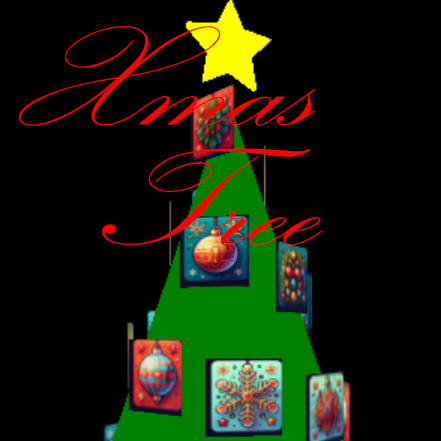
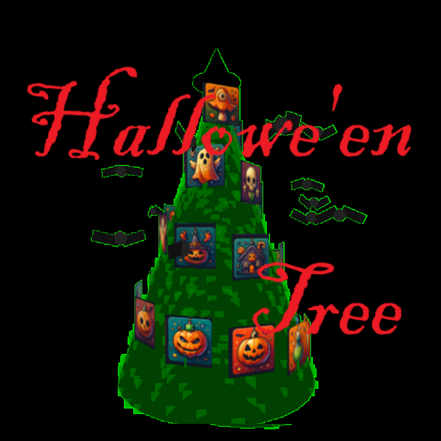
Hallowe'enTreeに変更

diff --git a/main.js b/main.js
@@ -7,6 +7,10 @@ const SPIRAL_TURNS = 4; // 螺旋の巻数
 const STEPS = 1000; // 数値積分のステップ数
 const DEFAULT_TEXTURE = 'default_texture.png';
 
+let bats = [];
+const clock = new THREE.Clock(); // 羽ばたき＆周回アニメ用
+
+// 螺旋上の点の3D座標を取得する関数
 function getSpiralPointCoordinates(treeHeight, treeRadius, spiralTurns, steps, fraction) {
     // 総螺旋の長さを計算
     // 螺旋の長さを計算するための積分処理
@@ -111,16 +115,100 @@ function createStarShape() {
     return shape;
 }
 
+// 魔女の帽子を作成
+function createWitchHat() {
+    const hatGroup = new THREE.Group();
+
+    // 円錐部分（とんがり）
+    const coneGeometry = new THREE.ConeGeometry(0.35, 0.75, 16);
+    const coneMaterial = new THREE.MeshBasicMaterial({ color: 0x000000 });
+    const cone = new THREE.Mesh(coneGeometry, coneMaterial);
+    cone.position.y = 0.375; // 高さの半分持ち上げて中心を合わせる
+    hatGroup.add(cone);
+
+    // つば部分（円盤）
+    const brimGeometry = new THREE.CylinderGeometry(0.5, 0.5, 0.05, 16);
+    const brimMaterial = new THREE.MeshBasicMaterial({ color: 0x000000 });
+    const brim = new THREE.Mesh(brimGeometry, brimMaterial);
+    brim.position.y = 0; // 底に配置
+    hatGroup.add(brim);
+
+    return hatGroup;
+}
 let ornaments = []
+// コウモリを飛ばす
+function createBat() {
+    const bat = new THREE.Group();
+
+    // 胴体
+    const bodyGeo = new THREE.SphereGeometry(0.12, 12, 12);
+    const bodyMat = new THREE.MeshBasicMaterial({ color: 0x222222 });
+    const body = new THREE.Mesh(bodyGeo, bodyMat);
+    bat.add(body);
+
+    // 翼（薄い板：三角に近い矩形を回転させて表現）
+    const wingGeo = new THREE.PlaneGeometry(0.45, 0.18);
+    const wingMat = new THREE.MeshBasicMaterial({ color: 0x111111, side: THREE.DoubleSide });
+    const leftWing = new THREE.Mesh(wingGeo, wingMat);
+    const rightWing = new THREE.Mesh(wingGeo, wingMat);
+
+    leftWing.position.set(-0.25, 0, 0);
+    rightWing.position.set(0.25, 0, 0);
+    // 初期角度（少し下げておく）
+    leftWing.rotation.y = Math.PI * 0.05;
+    rightWing.rotation.y = -Math.PI * 0.05;
+
+    bat.add(leftWing);
+    bat.add(rightWing);
+
+    // 羽にアクセスしやすいように保存
+    bat.userData.leftWing = leftWing;
+    bat.userData.rightWing = rightWing;
+
+    return bat;
+}
 
 // テクスチャとシーンを更新する関数
 function updateSceneWithNewTexture(scene) {
 
-    // クリスマスツリーと星を再度追加
+    // ハロウィンツリーを再度追加
     let treeGeometry = new THREE.ConeGeometry(TREE_RADIUS, TREE_HEIGHT, 32);
-    let treeMaterial = new THREE.MeshBasicMaterial({ color: 0x008000 });
+    let treeMaterial = new THREE.MeshBasicMaterial({ color: 0x004000 });
     let tree = new THREE.Mesh(treeGeometry, treeMaterial);
     scene.add(tree);
+
+    // 旧：雪パーティクル生成を削除し、コウモリ生成に変更
+    const BAT_COUNT = 13;
+    for (let i = 0; i < BAT_COUNT; i++) {
+        const bat = createBat();
+
+        // ツリー周囲を周回させるためのパラメータを仕込む
+        // 半径・高度・速度・位相はランダムにして群れっぽく
+        bat.userData.orbitRadius = THREE.MathUtils.randFloat(TREE_RADIUS * 0.8, TREE_RADIUS * 1.6);
+        bat.userData.orbitHeight = THREE.MathUtils.randFloat(-TREE_HEIGHT * 0.05, TREE_HEIGHT * 0.45);
+        bat.userData.orbitSpeed  = THREE.MathUtils.randFloat(0.4, 1.0);   // 角速度の係数
+        bat.userData.phase       = Math.random() * Math.PI * 2;
+        bat.userData.flapSpeed   = THREE.MathUtils.randFloat(6.0, 9.0);    // 羽ばたき速度
+        bat.userData.flapAmp     = THREE.MathUtils.degToRad(28);           // 羽ばたき振幅（±角度）
+
+        // 初期位置（位相で決める）
+        const theta = bat.userData.phase;
+        bat.position.set(
+            Math.cos(theta) * bat.userData.orbitRadius,
+            bat.userData.orbitHeight,
+            Math.sin(theta) * bat.userData.orbitRadius
+        );
+
+        // 進行方向を向かせる（ツリー中心(0, y, 0)を基準に接線方向へ）
+        const dir = new THREE.Vector3(
+            -Math.sin(theta), 0, Math.cos(theta)
+        ).normalize();
+        const lookAtPos = new THREE.Vector3().copy(bat.position).add(dir);
+        bat.lookAt(lookAtPos);
+
+        bats.push(bat);
+        scene.add(bat);
+    }
 
     // 雪を配置
     let particleGeometry = new THREE.BufferGeometry();
@@ -150,7 +238,7 @@ function updateSceneWithNewTexture(scene) {
     particleGeometry.setAttribute('position', new THREE.Float32BufferAttribute(positions, 3));
 
     let particleMaterial = new THREE.PointsMaterial({
-        color: 0xFFFFFF,
+        color: 0x008000,
         size: 0.2,
         transparent: true, // 透明度を有効にする
         opacity: 0.6        // 透明度の値を設定（0: 完全に透明, 1: 完全に不透明）
@@ -159,20 +247,24 @@ function updateSceneWithNewTexture(scene) {
     scene.add(particlesMesh);
 
     // 星形のメッシュを作成
-    const starShape = createStarShape();
-    const extrudeSettings = {
-        steps: 1,
-        depth: 0.1,
-        bevelEnabled: false
-    };
-    const starGeometry = new THREE.ExtrudeGeometry(starShape, extrudeSettings);
-    const starMaterial = new THREE.MeshBasicMaterial({ color: 0xffff00 });
-    const star = new THREE.Mesh(starGeometry, starMaterial);
+    // const starShape = createWitchHat();
+    // const extrudeSettings = {
+    //     steps: 1,
+    //     depth: 0.1,
+    //     bevelEnabled: false
+    // };
+    // const starGeometry = new THREE.ExtrudeGeometry(starShape, extrudeSettings);
+    // const starMaterial = new THREE.MeshBasicMaterial({ color: 0xffff00 });
+    // const star = new THREE.Mesh(starGeometry, starMaterial);
 
     // 星を円錐の頂上に配置
-    star.position.y = TREE_HEIGHT / 2 + 0.6; // 星を円錐の少し上に配置
-    star.rotation.z = Math.PI / 2; // 星をX軸周りに90度回転
-    scene.add(star);
+    // star.position.y = TREE_HEIGHT / 2 + 0.6; // 星を円錐の少し上に配置
+    // star.rotation.z = Math.PI / 2; // 星をX軸周りに90度回転
+    // scene.add(star);
+
+    const witchHat = createWitchHat();
+    witchHat.position.y = TREE_HEIGHT / 2 + 0.1; // ツリーの上に配置
+    scene.add(witchHat);
 
     let segmentHeight = 1 / 5;
 
@@ -246,7 +338,7 @@ renderer.setSize(window.innerWidth, window.innerHeight);
 document.body.appendChild(renderer.domElement);
 
 // 背景を透明に設定
-renderer.setClearColor(0x000000, 0); // 背景色を黒（0x000000）で透明度0に
+renderer.setClearColor(0x00FF00); // 背景色を黒（0x000000）で透明度0に
 document.body.appendChild(renderer.domElement);
 
 // OrbitControlsの作成
@@ -306,10 +398,40 @@ function handleFile(file) {
 function animate() {
     requestAnimationFrame(animate);
 
-    // OrbitControlsの更新
-    controls.update(); // カメラの回転（円軌道を描く）はもはや必要ありません。
+    const t = clock.getElapsedTime();
 
-    // シーンのレンダリング
+    // コウモリの群れを更新
+    for (const bat of bats) {
+        const r = bat.userData.orbitRadius;
+        const h = bat.userData.orbitHeight;
+        const w = bat.userData.orbitSpeed;
+        const phi = bat.userData.phase;
+
+        // 角度を時間で進める
+        const theta = phi + t * w;
+
+        // 周回（水平円運動）
+        bat.position.set(
+            Math.cos(theta) * r,
+            h + Math.sin(t * 0.6 + phi) * 0.06, // わずかに上下動
+            Math.sin(theta) * r
+        );
+
+        // 進行方向に機体を向ける
+        const dir = new THREE.Vector3(
+            -Math.sin(theta), 0, Math.cos(theta)
+        ).normalize();
+        const lookAtPos = new THREE.Vector3().copy(bat.position).add(dir);
+        bat.lookAt(lookAtPos);
+
+        // 羽ばたき（左右の翼を対称に上下回転）
+        const flap = Math.sin(t * bat.userData.flapSpeed) * bat.userData.flapAmp;
+        bat.userData.leftWing.rotation.z  =  flap;
+        bat.userData.rightWing.rotation.z = -flap;
+    }
+
+    // 既存のOrbitControls更新＆描画
+    controls.update();
     renderer.render(scene, camera);
 }
 animate();

diff --git a/index.html b/index.html
@@ -2,39 +2,39 @@
 <html lang="ja">
 <head>
     <meta charset="UTF-8">
-    <title>Xmas Tree</title>
+    <title>Halloween Tree</title>
     <script src="https://cdnjs.cloudflare.com/ajax/libs/three.js/r128/three.min.js"></script>
     <script src="https://cdn.jsdelivr.net/npm/three@0.101.1/examples/js/controls/OrbitControls.js"></script>
 
-    <meta property="og:title" content="Xmas Tree" />
+    <meta property="og:title" content="Halloween Tree" />
     <meta property="og:type" content="website" />
-    <meta property="og:url" content="https://katsu1101.github.io/xmas-threejs/" />
-    <meta property="og:image" content="https://katsu1101.github.io/xmas-threejs/og-image.jpg" />
-    <meta property="og:description" content="5x5の画像を使ってクリスマスツリーに飾り付けができます" />
-    <meta property="og:site_name" content="Xmas Tree" />
+    <meta property="og:url" content="https://katsu1101.github.io/halloween-threejs/" />
+    <meta property="og:image" content="https://katsu1101.github.io/halloween-threejs/og-image.jpg" />
+    <meta property="og:description" content="5x5の画像を使ってハロウィンツリーに飾り付けができます" />
+    <meta property="og:site_name" content="Halloween Tree" />
     <meta property="og:locale" content="ja_JP" />
 
     <meta name="twitter:card" content="summary_large_image" />
     <meta name="twitter:site" content="@katsu1101" />
-    <meta name="twitter:title" content="Xmas Tree" />
-    <meta name="twitter:description" content="5x5の画像を使ってクリスマスツリーに飾り付けができます" />
-    <meta name="twitter:image" content="https://katsu1101.github.io/xmas-threejs/twitter-card.jpg" />
+    <meta name="twitter:title" content="Halloween Tree" />
+    <meta name="twitter:description" content="5x5の画像を使ってハロウィンツリーに飾り付けができます" />
+    <meta name="twitter:image" content="https://katsu1101.github.io/halloween-threejs/twitter-card.jpg" />
 
-    <link rel="canonical" href="https://katsu1101.github.io/xmas-threejs/" />
-    <meta name="description" content="5x5の画像を使ってクリスマスツリーに飾り付けができます" />
+    <link rel="canonical" href="https://katsu1101.github.io/halloween-threejs/" />
+    <meta name="description" content="5x5の画像を使ってハロウィンツリーに飾り付けができます" />
     <meta name="robots" content="index, follow" />
 
     <!-- ホーム画面に追加したときのアイコン -->
-    <link rel="apple-touch-icon" href="https://katsu1101.github.io/xmas-threejs/apple-touch-icon.png" />
+    <link rel="apple-touch-icon" href="https://katsu1101.github.io/halloween-threejs/apple-touch-icon.png" />
     <!-- スタートアップ画像 -->
-    <link rel="apple-touch-startup-image" href="https://katsu1101.github.io/xmas-threejs/apple-touch-icon.png" />
+    <link rel="apple-touch-startup-image" href="https://katsu1101.github.io/halloween-threejs/apple-touch-icon.png" />
     <!-- アプリケーションのタイトル -->
-    <meta name="apple-mobile-web-app-title" content="Xmas Tree" />
+    <meta name="apple-mobile-web-app-title" content="Halloween Tree" />
     <!-- ステータスバーのスタイル -->
     <meta name="apple-mobile-web-app-status-bar-style" content="black-translucent" />
 
     <!-- ホーム画面に追加したときのアイコン -->
-    <link rel="shortcut icon" href="https://katsu1101.github.io/xmas-threejs/android-chrome-192x192.png" />
+    <link rel="shortcut icon" href="https://katsu1101.github.io/halloween-threejs/android-chrome-192x192.png" />
     <!-- テーマカラー -->
     <meta name="theme-color" content="#00FF00" />
 
